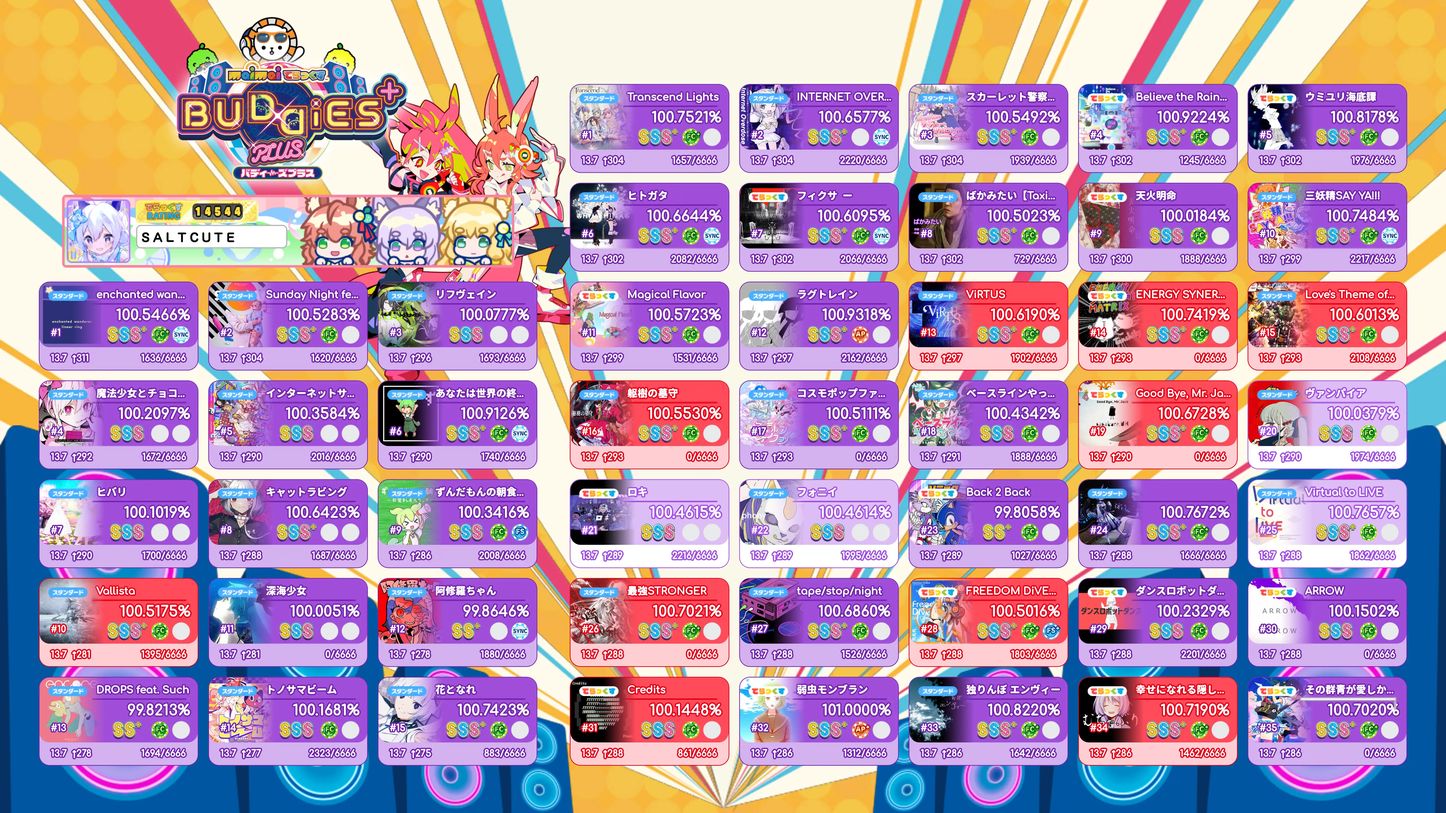
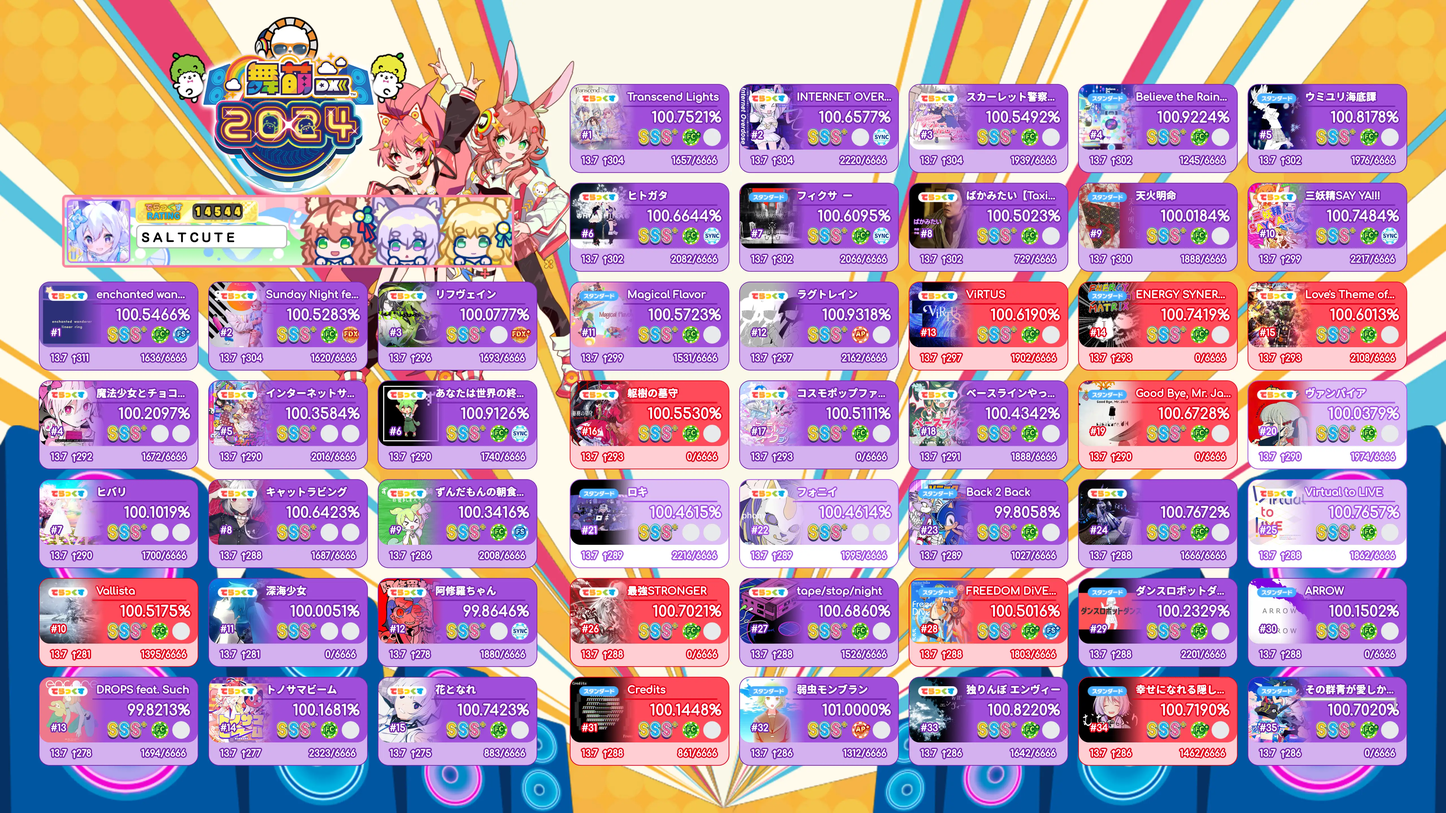
chore: test

diff --git a/test/testDraw.js b/test/testDraw.js
@@ -1,7 +1,8 @@
 const sharp = require("sharp");
 
 (async () => {
-    const maiDraw = require("../dist/lib/maiDraw/index").default;
+    const { MaiDraw } = require("../dist/lib/maiDraw/index");
+    const maiDraw = new MaiDraw("/home/xuanjiap/apps/maimai-songs-database");
     const fs = require("fs");
     const result = await maiDraw.draw(
         "SALTCUTE",
@@ -16,7 +17,7 @@ const sharp = require("sharp");
                     maxDxScore: 6666,
                 },
                 combo: 2,
-                sync: 1,
+                sync: 3,
                 achievement: 100.5466,
                 dxScore: 1636,
                 dxRating: 310.6656,
@@ -30,7 +31,7 @@ const sharp = require("sharp");
                     maxDxScore: 6666,
                 },
                 combo: 1,
-                sync: 0,
+                sync: 4,
                 achievement: 100.5283,
                 dxScore: 1620,
                 dxRating: 303.912,
@@ -44,7 +45,7 @@ const sharp = require("sharp");
                     maxDxScore: 6666,
                 },
                 combo: 0,
-                sync: 0,
+                sync: 5,
                 achievement: 100.0777,
                 dxScore: 1693,
                 dxRating: 296.14992984,
